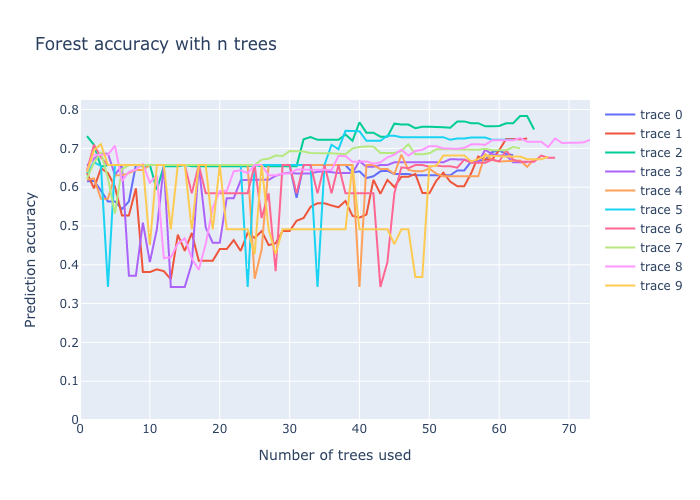
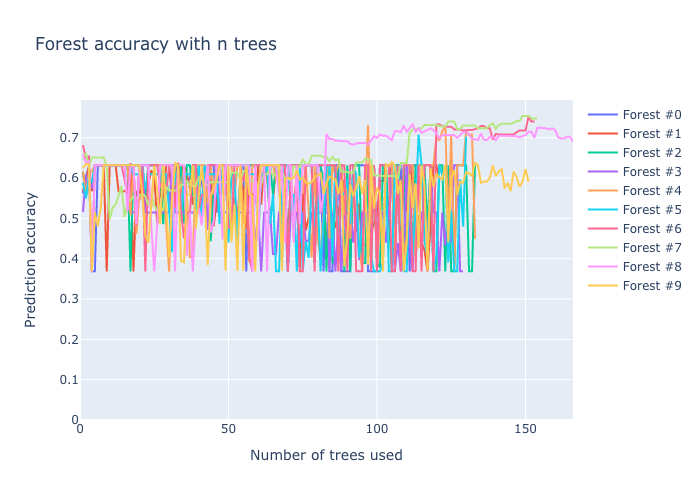
cleaner and more efficient code

diff --git a/source/utils/forest_core.py b/source/utils/forest_core.py
@@ -4,6 +4,7 @@ from sklearn.utils import resample
 import numpy as np
 from dl85 import DL85Classifier
 from gurobipy import Model, GRB, quicksum
+import copy
 
 
 class Forest(BaseEstimator, ClassifierMixin):
@@ -32,10 +33,11 @@ class Forest(BaseEstimator, ClassifierMixin):
         self.optimised = optimised
         self.train_X = None
         self.train_y = None
+        self.prev_weights = None
 
     def fit(self, X, y):
         check_X_y(X, y)
-        orig_X = np.array(X)
+        orig_X = copy.deepcopy(X)
         self.estimators = []
         self.weights = []
 
@@ -58,8 +60,10 @@ class Forest(BaseEstimator, ClassifierMixin):
                 sample, classes = X, y
 
             if self.attributes == "random":
-                # TODO: fix
-                pass
+                columns = resample(range(len(sample[0])), n_samples=column_size, replace=False)
+                for col in columns:
+                    for j in range(len(sample)):
+                        sample[j][col] = 1
 
             # Create the tree
             tree.fit(sample, classes)
@@ -72,8 +76,8 @@ class Forest(BaseEstimator, ClassifierMixin):
                 attr = root['feat']
 
                 # Set attribute to 1 in order for it to never be selected by the tree
-                for i in range(len(X)):
-                    X[i][attr] = 1
+                for j in range(len(X)):
+                    X[j][attr] = 1
 
             if self.attributes == "random_progressive":
                 root = tree.tree_
@@ -94,19 +98,19 @@ class Forest(BaseEstimator, ClassifierMixin):
                 # Get the randomly selected attribute
                 attr = pred['feat']
                 # Set attribute to 1 in order for it to never be selected by the tree
-                for i in range(len(X)):
-                    X[i][attr] = 1
+                for j in range(len(X)):
+                    X[j][attr] = 1
 
         X = orig_X
 
         if self.optimised and self.tree_class == DL85Classifier:
             # Predict on all existing trees
-            pred = np.array([t.predict(X) for t in self.estimators]) * 2 - 1
+            pred = [[-1 if p == 0 else 1 for p in t.predict(X)] for t in self.estimators]
 
             cont = True
             tree_count = self.n_estimators
             sample_count = len(y)
-            c = np.array(y) * 2 - 1
+            c = [-1 if p == 0 else 1 for p in y]
 
             # Used to accelerate the dual
             prev_sample_weights = None
@@ -120,9 +124,9 @@ class Forest(BaseEstimator, ClassifierMixin):
                 def error(tids):
                     all_classes = [0, 1]
                     supports = [0, 0]
-                    for i in tids:
-                        supports[(c[i] + 1) // 2] += int(sample_count * sample_weights[i])
-                    maxindex = np.argmax(supports)
+                    for tid in tids:
+                        supports[(c[tid] + 1) // 2] += int(sample_count * sample_weights[i])
+                    maxindex = supports.index(max(supports))
                     return sum(supports) - supports[maxindex], all_classes[maxindex]
 
                 # Fit a new tree with the new sample weights
@@ -135,14 +139,14 @@ class Forest(BaseEstimator, ClassifierMixin):
                         cont = False
 
                 # Calculate the new tree's gamma value
-                tree_pred = np.array(tree.predict(X)) * 2 - 1
-                accuracy = sum(c * sample_weights * tree_pred)
+                tree_pred = [p * 2 - 1 for p in tree.predict(X)]
+                accuracy = sum([c[i] * sample_weights[i] * tree_pred[i] for i in range(sample_count)])
                 print(accuracy, tree.accuracy_, gamma)
 
                 if accuracy > gamma and cont:
                     # If the tree is good enough, add it to the estimators and continue
                     self.estimators.append(tree)
-                    pred = np.vstack([pred, tree_pred])
+                    pred.append(tree_pred)
                     tree_count += 1
                 else:
                     # If the tree isn't good enough, solve the primal and save the trees and weights
@@ -185,16 +189,15 @@ class Forest(BaseEstimator, ClassifierMixin):
             return self.predict(X)
 
         estimators = self.all_estimators[:n]
-        pred = np.array([t.predict(self.train_X) for t in estimators]) * 2 - 1
-        c = np.array(self.train_y) * 2 - 1
+        pred = [[-1 if p == 0 else 1 for p in t.predict(self.train_X)] for t in estimators]
+        c = [-1 if p == 0 else 1 for p in self.train_y]
 
-        weights, _ = calculate_tree_weights(pred, c)
+        weights, _ = calculate_tree_weights(pred, c, self.prev_weights)
+        self.prev_weights = weights
 
-        lst = np.array([t.predict(X) for t in estimators])
-        lst = lst * 2 - 1
-        wlst = [weights[t] * lst[t, :] for t in range(len(estimators))]
-        pred = np.sum(wlst, axis=0)
-        pred = [0 if p < 0 else 1 for p in pred]
+        lst = [[-1 if p == 0 else 1 for p in t.predict(X)] for t in estimators]
+        wlst = [[weights[t] * lst[t][i] for i in range(len(lst[t]))] for t in range(len(estimators))]
+        pred = [0 if sum(i) < 0 else 1 for i in zip(*wlst)]
         self.unanimity = [np.count_nonzero(lst[:, i] == pred[i]) for i in range(len(lst[0]))]
         return pred
 
@@ -254,7 +257,7 @@ def calculate_sample_weights(pred, c, prev_sample_weights=None):
     m.addConstr(quicksum(sample_weights) == 1, name="weights = 1")
     for t in range(tree_count):
         m.addConstr(
-            quicksum([c[i] * sample_weights[i] * pred[t, i] for i in range(sample_count)]) <= gamma,
+            quicksum([c[i] * sample_weights[i] * pred[t][i] for i in range(sample_count)]) <= gamma,
             name="Constraint on tree " + str(t))
 
     m.setParam("LogToConsole", 0)
@@ -265,20 +268,26 @@ def calculate_sample_weights(pred, c, prev_sample_weights=None):
     return [w.X for w in sample_weights], gamma.X
 
 
-def calculate_tree_weights(pred, c):
+def calculate_tree_weights(pred, c, prev_tree_weights=None):
     tree_count = len(pred)
     sample_count = len(c)
 
     m = Model("tree_weight_optimiser")
     tree_weights = [m.addVar(vtype=GRB.CONTINUOUS, name="tree_weights " + str(t)) for t in
                     range(tree_count)]
+
+    # Set tree weights to given value
+    if prev_tree_weights is not None:
+        for i in range(min(len(prev_tree_weights), len(tree_weights))):
+            tree_weights[i].setAttr("Start", prev_tree_weights[i])
+
     rho = m.addVar(vtype=GRB.CONTINUOUS, name="rho", lb=float("-inf"))
 
     m.setObjective(rho, GRB.MAXIMIZE)
 
     m.addConstr(quicksum(tree_weights) == 1, name="weights = 1")
     for i in range(sample_count):
-        m.addConstr(quicksum([c[i] * tree_weights[t] * pred[t, i] for t in range(tree_count)]) >= rho,
+        m.addConstr(quicksum([c[i] * tree_weights[t] * pred[t][i] for t in range(tree_count)]) >= rho,
                      name="Constraint on sample " + str(i))
 
     m.setParam("LogToConsole", 0)

diff --git a/source/graphing/grapher.py b/source/graphing/grapher.py
@@ -139,7 +139,7 @@ def plot(algos):
                     accs = data.check_acc_with_n_trees(n)
                     acc.append(accs)
 
-                layout = go.Layout(title='Forest accuracy with n trees',
+                layout = go.Layout(title='Forest accuracy with n trees (on training s',
                                    xaxis=dict(rangemode="tozero", title='Number of trees used'),
                                    yaxis=dict(rangemode="tozero", title='Prediction accuracy'))
                 g_f_acc = go.Figure(layout=layout)

diff --git a/setup.py b/setup.py
@@ -5,6 +5,6 @@ setup(
     packages=['forester'],
     include_package_data=True,
     install_requires=[
-        'numpy', 'scikit-learn', 'plotly', 'psutil', 'requests', 'cython', 'dl8.5', 'pandas'
+        'numpy', 'scikit-learn', 'plotly', 'psutil', 'requests', 'cython', 'dl8.5', 'pandas', 'gurobipy'
     ],
 )
